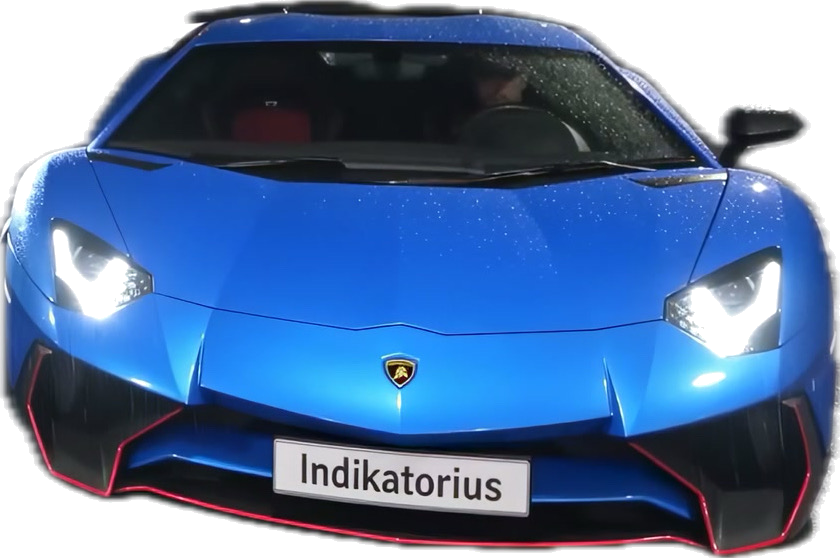
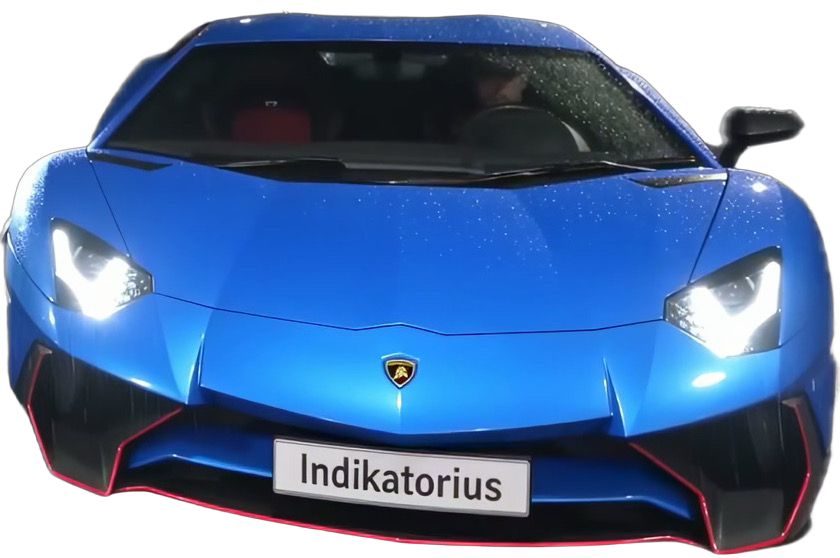
Use rembg instead of white-to-transparent for cleaner edges

diff --git a/scripts/prepare-cars.py b/scripts/prepare-cars.py
@@ -1,72 +1,68 @@
 #!/usr/bin/env python3
-"""Prepare car images from user-provided source files.
+"""Prepare car images using rembg on manually-cleaned source files.
 
-- masina1.jpeg → public/cars/aventador.png (just convert format)
-- masina.jpeg  → split into two:
-    - public/cars/divo.png (left half, Bugatti)
-    - public/cars/urus.png (right half, Urus)
+- masina1.jpeg -> public/cars/aventador.png
+- masina.jpeg  -> split + rembg -> public/cars/divo.png + urus.png
 """
 from pathlib import Path
 from PIL import Image
+from rembg import new_session, remove
+import io
 import sys
 
 ROOT = Path(".")
 OUT = Path("public/cars")
 OUT.mkdir(exist_ok=True, parents=True)
 
-# === Aventador: just convert masina1.jpeg to PNG ===
 aventador_src = ROOT / "masina1.jpeg"
+dual_src = ROOT / "masina.jpeg"
+
 if not aventador_src.exists():
     print(f"ERROR: {aventador_src} not found", file=sys.stderr)
     sys.exit(1)
-
-img = Image.open(aventador_src).convert("RGBA")
-w0, h0 = img.size
-print(f"Source aventador: {w0}x{h0}")
-data = img.getdata()
-new_data = []
-for px in data:
-    r, g, b, a = px
-    if r > 240 and g > 240 and b > 240:
-        new_data.append((255, 255, 255, 0))
-    else:
-        new_data.append(px)
-img.putdata(new_data)
-img.save(OUT / "aventador.png", optimize=True)
-print(f"OK: public/cars/aventador.png ({img.size})")
-
-# === Bugatti + Urus: split masina.jpeg ===
-dual_src = ROOT / "masina.jpeg"
 if not dual_src.exists():
     print(f"ERROR: {dual_src} not found", file=sys.stderr)
     sys.exit(1)
 
-dual = Image.open(dual_src).convert("RGBA")
-w, h = dual.size
-print(f"Source dual image: {w}x{h}")
+print("Loading birefnet-general model (best edge quality)...")
+session = new_session("birefnet-general")
 
-# Bugatti on left, Urus on right (slightly smaller, upper-right)
+def remove_bg(img: Image.Image) -> Image.Image:
+    """Run rembg on a PIL image and return RGBA."""
+    buf = io.BytesIO()
+    img.convert("RGB").save(buf, format="PNG")
+    out_bytes = remove(buf.getvalue(), session=session)
+    return Image.open(io.BytesIO(out_bytes)).convert("RGBA")
+
+# === Aventador ===
+print("\n=== Aventador ===")
+aventador_img = Image.open(aventador_src)
+print(f"  Source: {aventador_img.size}")
+result = remove_bg(aventador_img)
+result.save(OUT / "aventador.png", optimize=True)
+print(f"  OK: {OUT / 'aventador.png'} ({result.size})")
+
+# === Bugatti + Urus split ===
+dual_img = Image.open(dual_src)
+w, h = dual_img.size
+print(f"\nDual source: {w}x{h}")
+
+# Tight non-overlapping crops verified to isolate one car each
 BUGATTI_BOX = (0,             0, int(w * 0.54), h)
 URUS_BOX    = (int(w * 0.60), 0, w,             int(h * 0.78))
 
-def white_to_transparent(im: Image.Image) -> Image.Image:
-    im = im.convert("RGBA")
-    data = im.getdata()
-    out = []
-    for r, g, b, a in data:
-        if r > 240 and g > 240 and b > 240:
-            out.append((255, 255, 255, 0))
-        else:
-            out.append((r, g, b, a))
-    im.putdata(out)
-    return im
+print("\n=== Bugatti Divo ===")
+bugatti_crop = dual_img.crop(BUGATTI_BOX)
+print(f"  Crop: {bugatti_crop.size}")
+result = remove_bg(bugatti_crop)
+result.save(OUT / "divo.png", optimize=True)
+print(f"  OK: {OUT / 'divo.png'} ({result.size})")
 
-bugatti = white_to_transparent(dual.crop(BUGATTI_BOX))
-bugatti.save(OUT / "divo.png", optimize=True)
-print(f"OK: public/cars/divo.png ({bugatti.size})")
+print("\n=== Urus ===")
+urus_crop = dual_img.crop(URUS_BOX)
+print(f"  Crop: {urus_crop.size}")
+result = remove_bg(urus_crop)
+result.save(OUT / "urus.png", optimize=True)
+print(f"  OK: {OUT / 'urus.png'} ({result.size})")
 
-urus = white_to_transparent(dual.crop(URUS_BOX))
-urus.save(OUT / "urus.png", optimize=True)
-print(f"OK: public/cars/urus.png ({urus.size})")
-
-print("\nDone. Verify each PNG opens correctly and contains only one car.")
+print("\nDone. Each PNG should have clean transparent edges and no white halo.")
